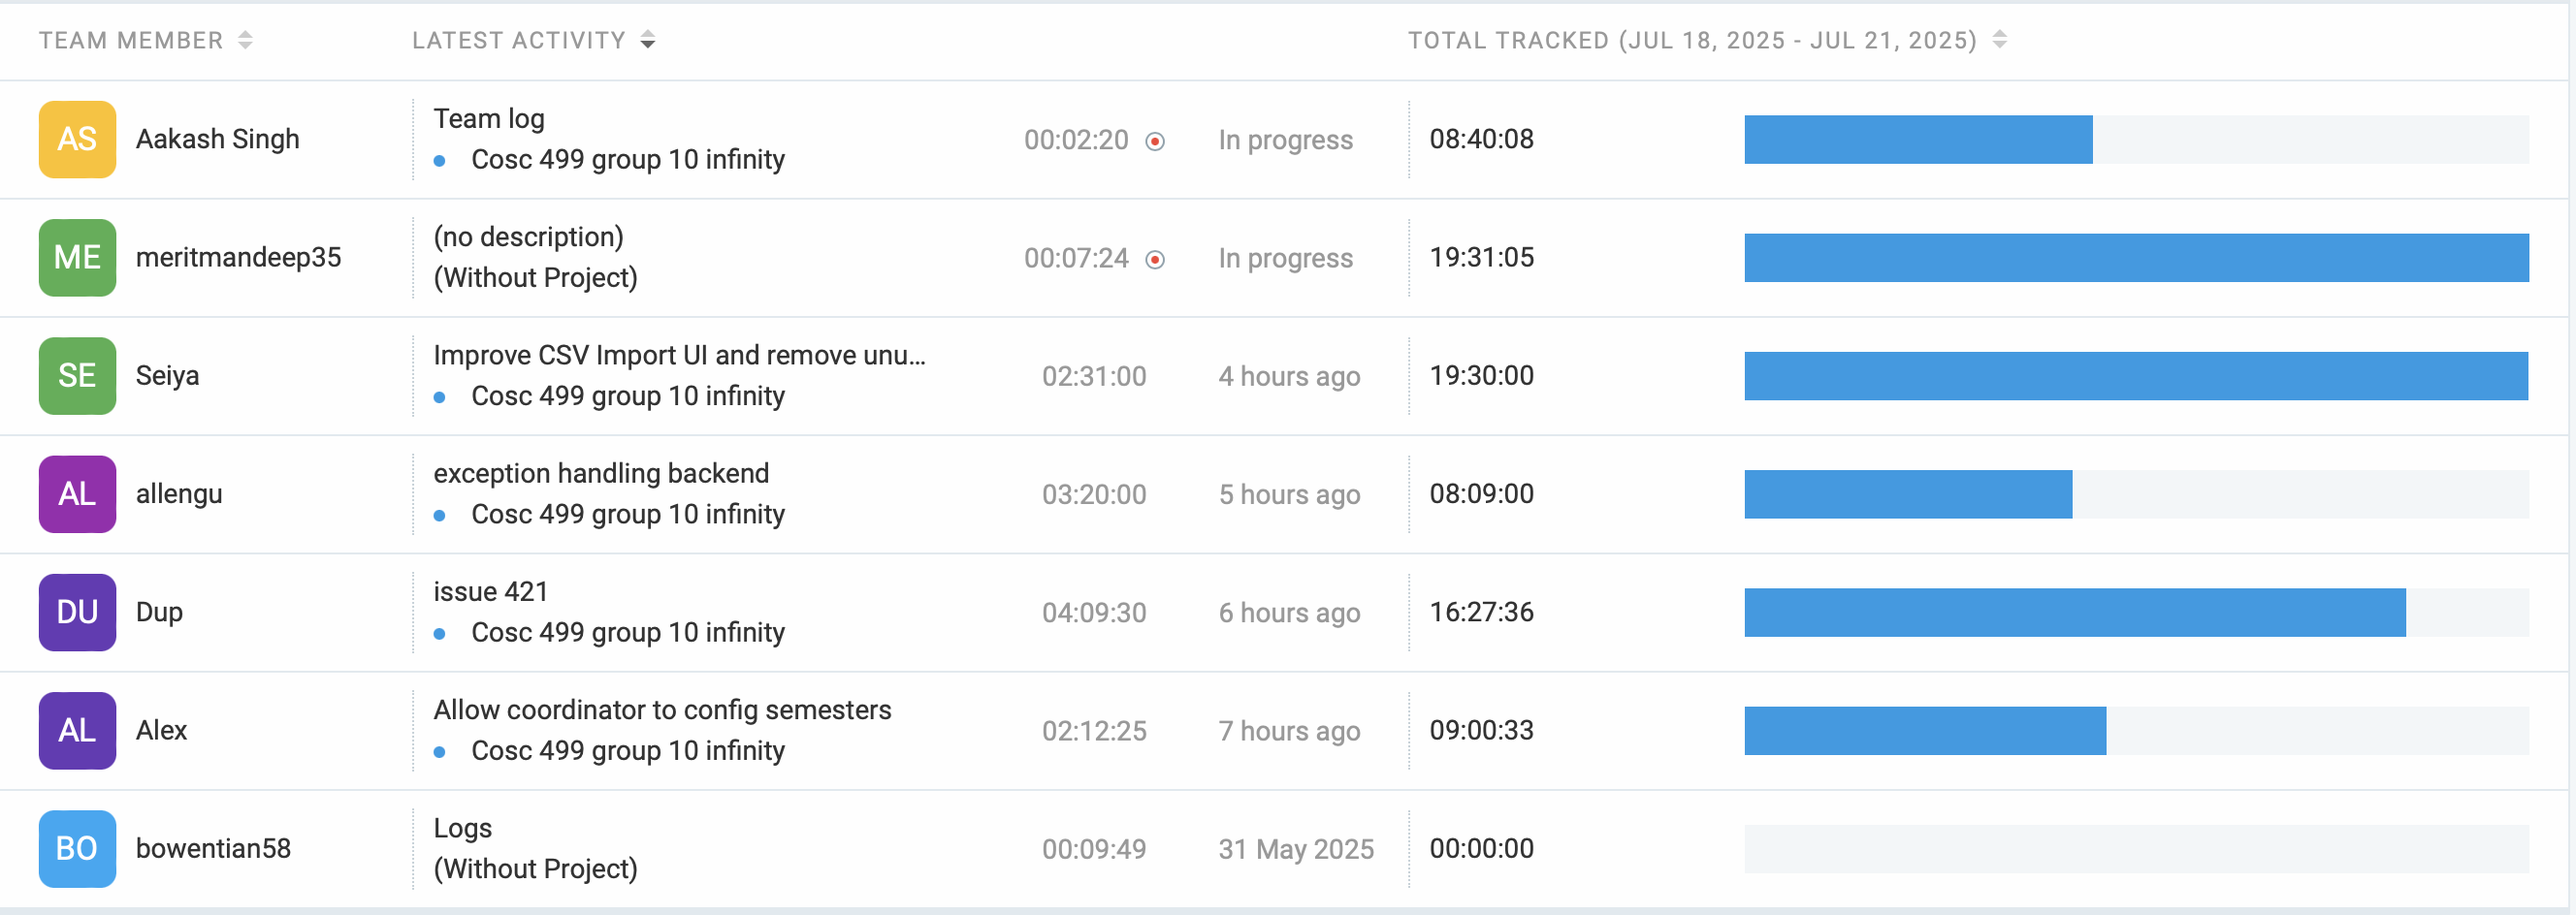
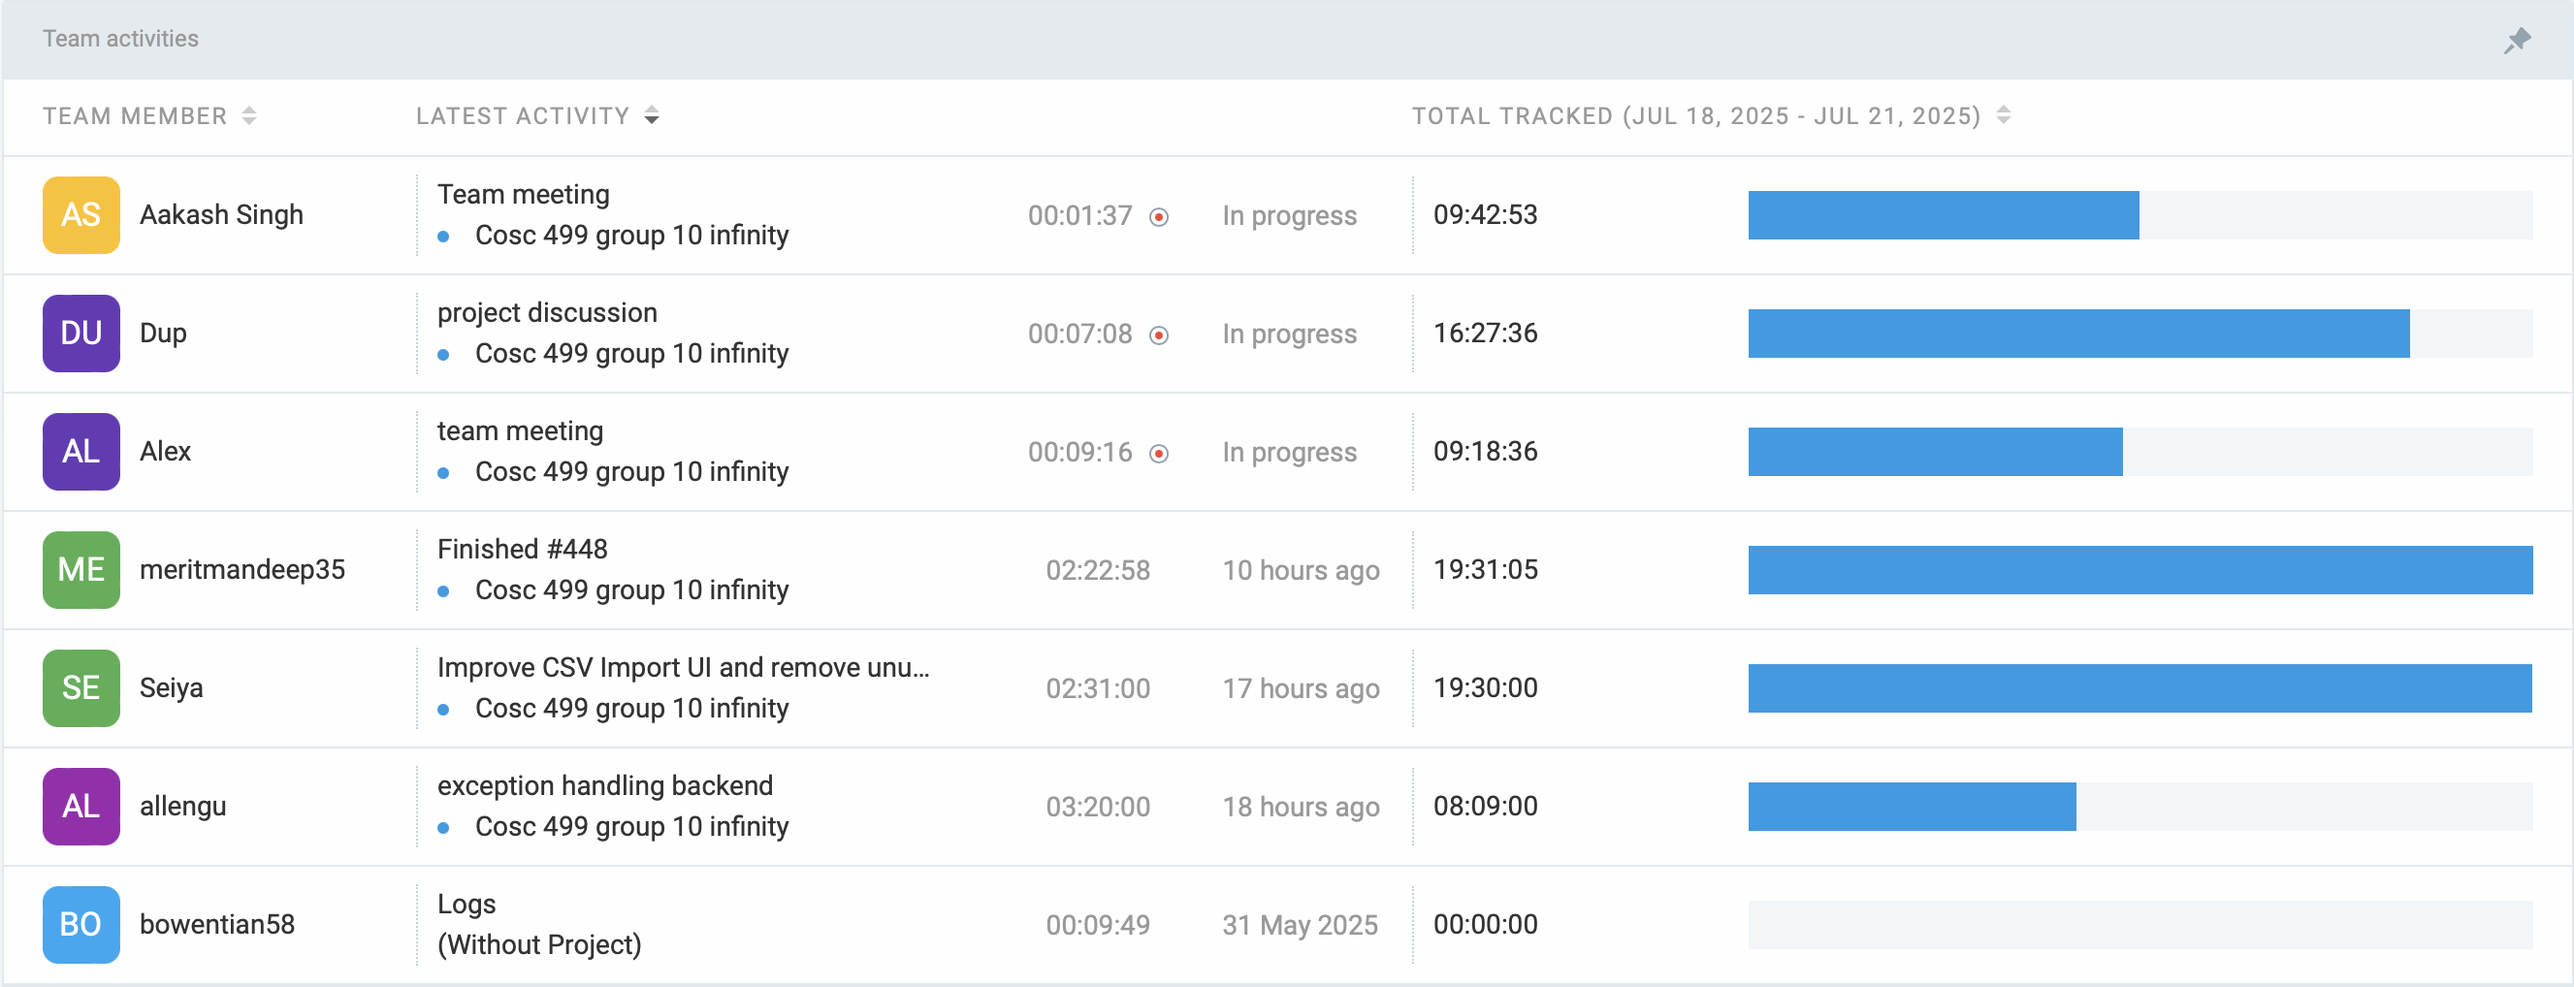
fixed copy paste error and updated clockify

diff --git a/docs/weekly_logs/team/July_18-21.md b/docs/weekly_logs/team/July_18-21.md
@@ -67,8 +67,8 @@
 
 | Team Member | Logged Hours |
 | ----------- | ------------ |
-| Aakash      | 08:40           |
-| Alex        | 09:00           |
+| Aakash      | 09:42           |
+| Alex        | 09:18           |
 | Allen       | 08:09           |
 | Dup         | 16:27          |
 | Eddy        | 00:00        |
@@ -82,22 +82,22 @@
 
 | Task ID | Description                                        | Completed By       |
 | ------- | -------------------------------------------------- | ------------------ |
-| [#429](https://github.com/UBCO-COSC499-S2025/team-10-capstone-infinity/issues/429) | Exams      | 429 coordinator create exam| Aakash      | Completed    |
-| [#430](https://github.com/UBCO-COSC499-S2025/team-10-capstone-infinity/issues/430) | Exams      | 430 coordinator assign student to exam| Aakash      | Completed    |
-| [#431](https://github.com/UBCO-COSC499-S2025/team-10-capstone-infinity/issues/431) | Exams      | 431 Schedule page update for student to see exam assignment | Aakash      | Completed    |
-| [#415](https://github.com/UBCO-COSC499-S2025/team-10-capstone-infinity/issues/415) |  improvements to needviewer and usersearch          | NeedViewer and userserch  | Dup    | Completed    |
-| [#440](https://github.com/UBCO-COSC499-S2025/team-10-capstone-infinity/issues/440) | 440 add endpoint for courses without needs| Courses  | Alex   | Completed  |
-| [#441](https://github.com/UBCO-COSC499-S2025/team-10-capstone-infinity/issues/441) | 441 have audit logs show name instead of id| Audit | Alex   | Completed  |
+| [#429](https://github.com/UBCO-COSC499-S2025/team-10-capstone-infinity/issues/429) | 429 coordinator create exam| Aakash | 
+| [#430](https://github.com/UBCO-COSC499-S2025/team-10-capstone-infinity/issues/430) | 430 coordinator assign student to exam| Aakash      |
+| [#431](https://github.com/UBCO-COSC499-S2025/team-10-capstone-infinity/issues/431) | 431 Schedule page update for student to see exam assignment | Aakash |
+| [#415](https://github.com/UBCO-COSC499-S2025/team-10-capstone-infinity/issues/415) | 415 improvements to needviewer and usersearch          | Dup    | 
+| [#440](https://github.com/UBCO-COSC499-S2025/team-10-capstone-infinity/issues/440) | 440 add endpoint for courses without needs| Alex   | 
+| [#441](https://github.com/UBCO-COSC499-S2025/team-10-capstone-infinity/issues/441) | 441 have audit logs show name instead of id| Alex   |
 
 
 ## In Progress Tasks/ To do:
 
 | Task ID | Description                                                | Assigned To       |
 | ------- | ---------------------------------------------------------- | ----------------- |
-| [#448](https://github.com/UBCO-COSC499-S2025/team-10-capstone-infinity/issues/448) | Aesthetics of profile page across all user roles | 15 | Mandeep|
-| [#421](https://github.com/UBCO-COSC499-S2025/team-10-capstone-infinity/issues/421) | Change filters | 15 | Dup|
-| [#428](https://github.com/UBCO-COSC499-S2025/team-10-capstone-infinity/issues/428) | Backend for global config for term | 15 | Alex|
-| [#451](https://github.com/UBCO-COSC499-S2025/team-10-capstone-infinity/issues/451) | UI enhancements for courses/sections creation | 15 | Seiya|
+| [#448](https://github.com/UBCO-COSC499-S2025/team-10-capstone-infinity/issues/448) | Aesthetics of profile page across all user roles | Mandeep|
+| [#421](https://github.com/UBCO-COSC499-S2025/team-10-capstone-infinity/issues/421) | Change filters | Dup|
+| [#428](https://github.com/UBCO-COSC499-S2025/team-10-capstone-infinity/issues/428) | Backend for global config for term | Alex |
+| [#451](https://github.com/UBCO-COSC499-S2025/team-10-capstone-infinity/issues/451) | UI enhancements for courses/sections creation | Seiya|
 
 ## Overview:
 
